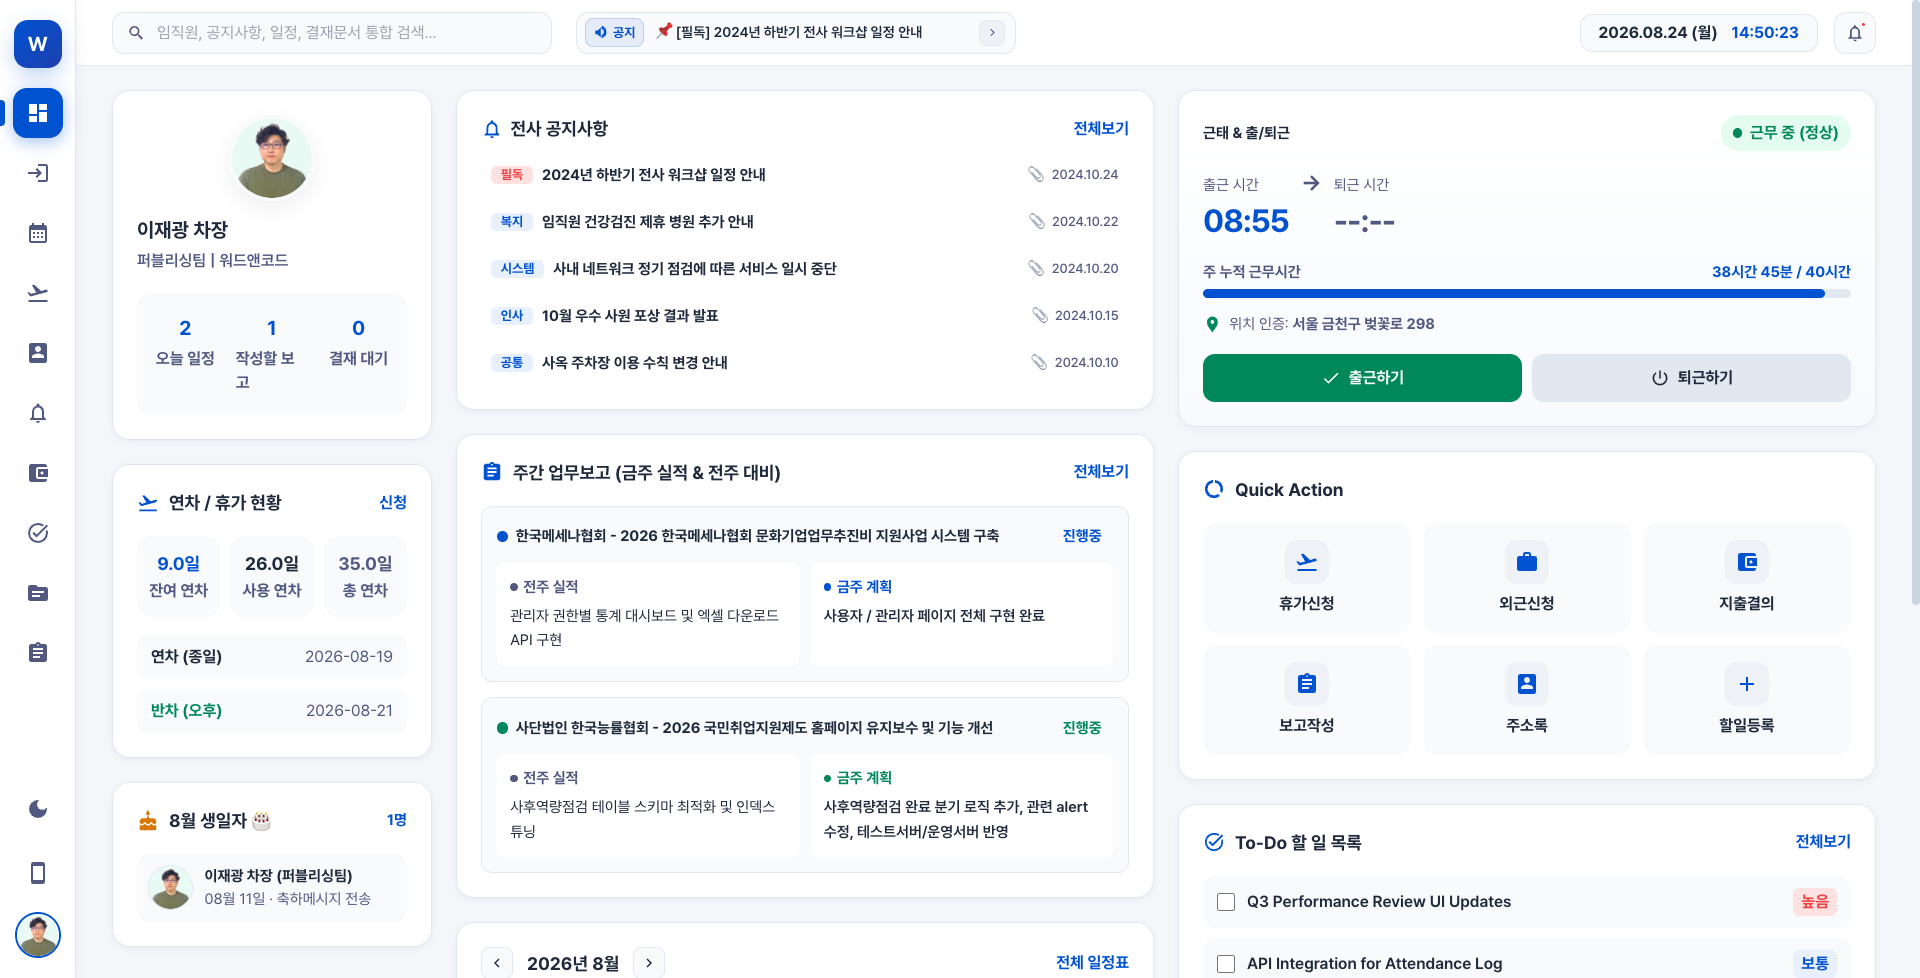
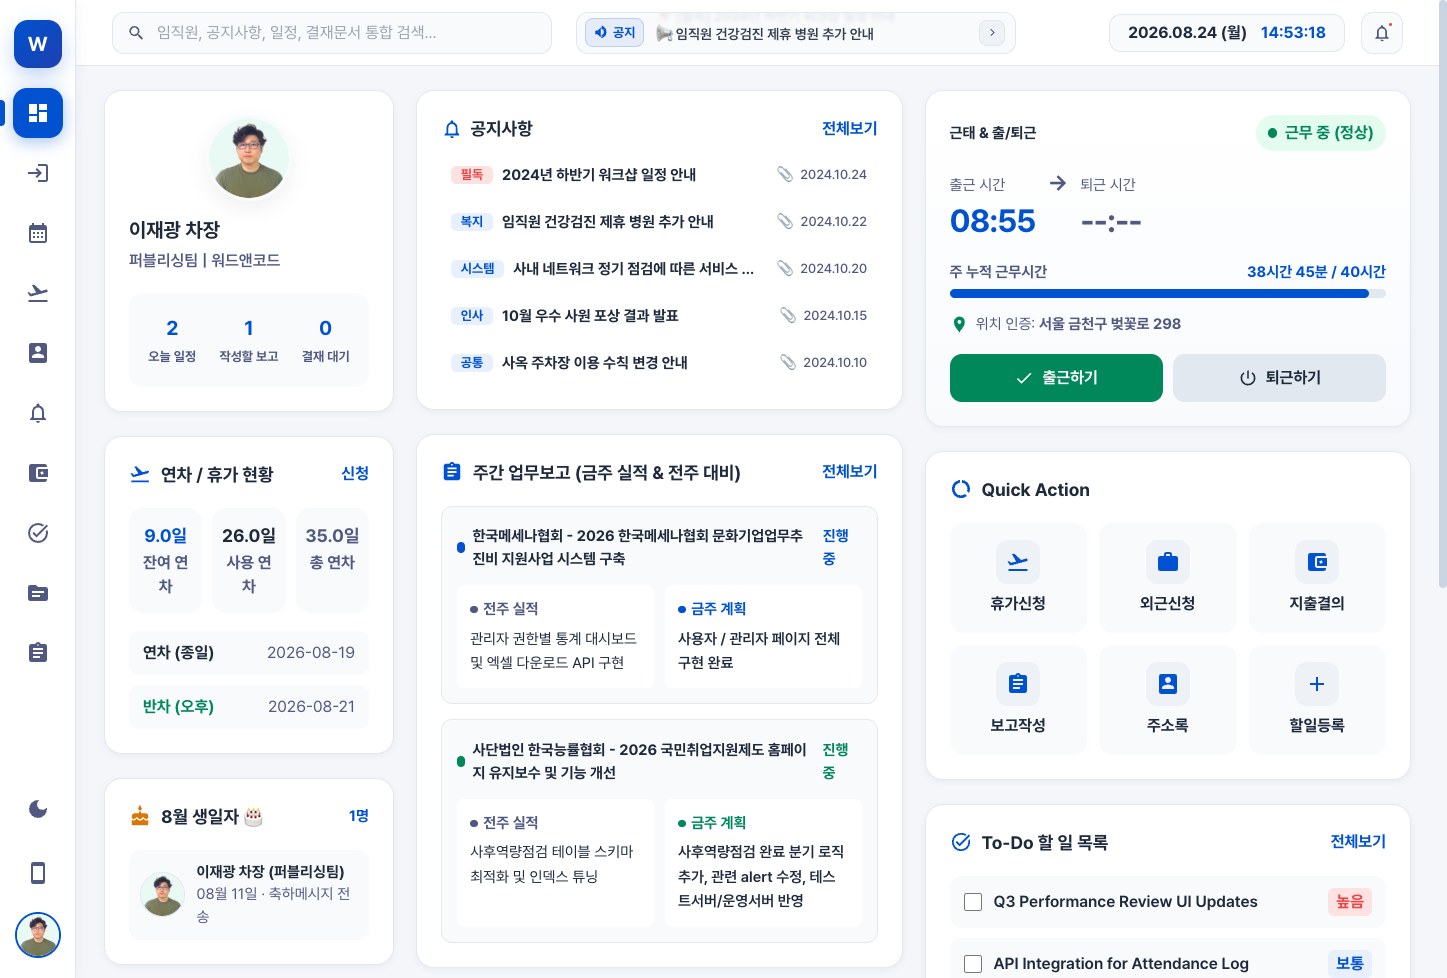
수정: UI 및 데이터 항목에서 불필요한 '전사' 명칭 전면 제거 및 텍스트 정돈

diff --git a/index.html b/index.html
@@ -165,7 +165,7 @@
       </div>
       <div class="ticker-viewport" title="공지사항 상세 보기">
         <div class="ticker-track" id="ticker-track">
-          <div class="ticker-item" id="ticker-item-current" onclick="App.openNoticeDetail(1)">2024년 하반기 전사 워크샵 일정 안내</div>
+          <div class="ticker-item" id="ticker-item-current" onclick="App.openNoticeDetail(1)">2024년 하반기 워크샵 일정 안내</div>
         </div>
       </div>
       <button class="ticker-action" onclick="App.switchTab('screen-notice-list')" title="공지사항 전체 보기">
@@ -444,7 +444,7 @@
           <div class="flex items-center gap-2.5 truncate">
             <span class="px-2.5 py-0.5 rounded-full bg-tertiary-container/20 text-tertiary-fixed-dim font-label text-[11px] font-bold shrink-0">[필독]</span>
             <span class="px-1.5 py-0.5 bg-error text-on-error rounded text-[10px] font-bold uppercase tracking-wider shrink-0">NEW</span>
-            <span class="font-headline font-bold text-xs text-on-surface truncate">2024년 하반기 전사 워크샵 일정 안내</span>
+            <span class="font-headline font-bold text-xs text-on-surface truncate">2024년 하반기 워크샵 일정 안내</span>
           </div>
           <svg class="w-5 h-5 text-outline shrink-0 ml-1" viewBox="0 0 24 24" fill="currentColor">
             <path d="M10 6L8.59 7.41 13.17 12l-4.58 4.59L10 18l6-6z"/>
@@ -1080,7 +1080,7 @@
                 <div class="flex items-baseline gap-1.5 mt-1">
                   <span class="font-headline font-bold text-2xl text-primary">사외 업무 및 미팅</span>
                 </div>
-                <p class="text-xs text-on-surface-variant mt-1.5 font-medium">등록된 외근 일정은 전사 근태일지에 즉시 실시간 동기화됩니다.</p>
+                <p class="text-xs text-on-surface-variant mt-1.5 font-medium">등록된 외근 일정은 근태일지에 즉시 실시간 동기화됩니다.</p>
               </div>
               <div class="w-12 h-12 rounded-full bg-surface-container-lowest flex items-center justify-center shadow-[0_4px_12px_rgba(35,44,81,0.04)] text-primary">
                 <svg class="w-6 h-6" viewBox="0 0 24 24" fill="currentColor">
@@ -1239,7 +1239,7 @@
             <span class="text-on-surface-variant font-body text-xs" id="notice-detail-date">2024.10.24</span>
           </div>
           <h1 class="font-headline text-xl font-bold text-on-surface mb-3 leading-snug" id="notice-detail-title">
-            2024년 하반기 전사 워크샵 일정 안내
+            2024년 하반기 워크샵 일정 안내
           </h1>
           <div class="flex items-center gap-2 text-on-surface-variant font-body text-xs border-t border-outline-variant/10 pt-3 mt-2">
             <svg class="w-4 h-4 text-on-surface-variant shrink-0" viewBox="0 0 24 24" fill="currentColor">
@@ -2006,7 +2006,7 @@
         <div class="flex flex-col gap-1 mb-2">
           <div>
             <h2 class="font-headline text-3xl font-extrabold text-on-surface tracking-tight">프로젝트 관리</h2>
-            <p class="text-on-surface-variant text-xs mt-1">전사 프로젝트 현황 및 사이트 운영 정보를 한눈에 공유하고 관리하세요.</p>
+            <p class="text-on-surface-variant text-xs mt-1">프로젝트 현황 및 사이트 운영 정보를 한눈에 공유하고 관리하세요.</p>
           </div>
           <div class="flex justify-end pt-1">
             <span class="px-3 py-1 bg-primary/10 text-primary font-bold text-xs rounded-full whitespace-nowrap" id="project-total-count">총 10개</span>
@@ -2061,7 +2061,7 @@
         <div class="flex flex-col gap-1 mb-2">
           <div>
             <h2 class="font-headline text-3xl font-extrabold text-on-surface tracking-tight">업무보고</h2>
-            <p class="text-on-surface-variant text-xs mt-1">전사 및 팀별 주간·일간 업무 진행 상황을 확인하세요.</p>
+            <p class="text-on-surface-variant text-xs mt-1">팀별 주간·일간 업무 진행 상황을 확인하세요.</p>
           </div>
           <div class="flex justify-end pt-1">
             <span class="px-3 py-1 bg-primary/10 text-primary font-bold text-xs rounded-full whitespace-nowrap">실시간 공유</span>

diff --git a/pc.html b/pc.html
@@ -215,7 +215,7 @@
               <h2 class="text-2xl font-bold text-on-surface">임직원 주소록</h2>
               <span class="px-3 py-1 bg-primary/10 text-primary font-bold rounded-full text-base" id="pc-dir-total-badge">21명</span>
             </div>
-            <p class="text-base text-on-surface-variant font-medium mt-1">워드앤코드 전사 조직도 및 21명 임직원 비상연락망</p>
+            <p class="text-base text-on-surface-variant font-medium mt-1">워드앤코드 조직도 및 21명 임직원 비상연락망</p>
           </div>
           <div class="flex items-center gap-3">
             <div class="relative w-72">
@@ -246,7 +246,7 @@
       <section class="pc-screen-view p-8" id="pc-screen-notice">
         <div class="flex flex-col md:flex-row md:items-center justify-between gap-4 mb-6 pb-4 border-b border-outline">
           <div>
-            <h2 class="text-2xl font-bold text-on-surface">전사 공지사항</h2>
+            <h2 class="text-2xl font-bold text-on-surface">공지사항</h2>
             <p class="text-base text-on-surface-variant font-medium mt-1">사내 주요 공지 및 업무 안내 게시판</p>
           </div>
           <div class="flex items-center gap-3">
@@ -368,7 +368,7 @@
         <div class="flex items-center justify-between mb-6 pb-4 border-b border-outline">
           <div>
             <h2 class="text-2xl font-bold text-on-surface">근태일지 & 사내 캘린더</h2>
-            <p class="text-base text-on-surface-variant font-medium mt-1">월간/주간/일간 전사 일정 및 휴가/외근/회의 현황</p>
+            <p class="text-base text-on-surface-variant font-medium mt-1">월간/주간/일간 사내 일정 및 휴가/외근/회의 현황</p>
           </div>
           <div class="flex items-center gap-3">
             <button class="px-4 py-2 bg-surface-container hover:bg-surface-container-high rounded-xl text-base font-bold text-on-surface" onclick="PCApp.goToTodayCal()">오늘</button>
@@ -493,7 +493,7 @@
         <div class="flex flex-col md:flex-row md:items-center justify-between gap-4 mb-6 pb-4 border-b border-outline">
           <div>
             <h2 class="text-2xl font-bold text-on-surface">프로젝트 관리</h2>
-            <p class="text-base text-on-surface-variant font-medium mt-1">전사 구축 및 운영/유지보수 프로젝트 현황</p>
+            <p class="text-base text-on-surface-variant font-medium mt-1">구축 및 운영/유지보수 프로젝트 현황</p>
           </div>
         </div>
 
@@ -545,7 +545,7 @@
                 </div>
               </div>
               <p class="text-base text-on-surface-variant leading-relaxed">
-                * 휴가 신청 완료 즉시 전사 근태일지 및 사내 캘린더에 실시간 자동 등록됩니다.
+                * 휴가 신청 완료 즉시 근태일지 및 사내 캘린더에 실시간 자동 등록됩니다.
               </p>
             </div>
           </div>

diff --git a/data/mockData.js b/data/mockData.js
@@ -36,14 +36,14 @@ window.MockData = {
   notices: [
     {
       id: 1,
-      title: '2024년 하반기 전사 워크샵 일정 안내',
+      title: '2024년 하반기 워크샵 일정 안내',
       category: '인사',
       date: '2024.10.24',
       isPinned: true,
       isNew: true,
       author: '경영지원팀 오은주 차장',
-      summary: '2024년 하반기 전사 워크샵 일정을 아래와 같이 안내합니다.',
-      content: `<p class="mb-3">안녕하십니까, 임직원 여러분.</p><p class="mb-3">2024년도 하반기 전사 워크샵 일정을 아래와 같이 안내드리오니, 부서별 일정을 확인하시어 준비해 주시기 바랍니다. 소통과 단합을 위한 다양하고 유익한 프로그램이 준비되어 있습니다.</p><div class="bg-surface-container rounded-2xl overflow-hidden p-5 my-5 border-l-[5px] border-primary"><h3 class="font-headline font-bold text-primary mb-2 text-sm">워크샵 주요 일정</h3><ul class="list-disc list-inside space-y-1.5 text-xs text-on-surface-variant"><li><strong>일시:</strong> 2024년 11월 14일(목) ~ 11월 15일(금) [1박 2일]</li><li><strong>장소:</strong> 강원도 속초 리조트 메인 홀</li><li><strong>참석 대상:</strong> 전 임직원</li><li><strong>집결:</strong> 사옥 전면 주차장 08:30 대형버스 탑승</li></ul></div><p>상세 안내 자료 및 세부 편성표는 첨부파일을 확인해 주시기 바랍니다. 문의사항은 인사팀으로 연락 부탁드립니다.</p>`,
+      summary: '2024년 하반기 워크샵 일정을 아래와 같이 안내합니다.',
+      content: `<p class="mb-3">안녕하십니까, 임직원 여러분.</p><p class="mb-3">2024년도 하반기 워크샵 일정을 아래와 같이 안내드리오니, 부서별 일정을 확인하시어 준비해 주시기 바랍니다. 소통과 단합을 위한 다양하고 유익한 프로그램이 준비되어 있습니다.</p><div class="bg-surface-container rounded-2xl overflow-hidden p-5 my-5 border-l-[5px] border-primary"><h3 class="font-headline font-bold text-primary mb-2 text-sm">워크샵 주요 일정</h3><ul class="list-disc list-inside space-y-1.5 text-xs text-on-surface-variant"><li><strong>일시:</strong> 2024년 11월 14일(목) ~ 11월 15일(금) [1박 2일]</li><li><strong>장소:</strong> 강원도 속초 리조트 메인 홀</li><li><strong>참석 대상:</strong> 전 임직원</li><li><strong>집결:</strong> 사옥 전면 주차장 08:30 대형버스 탑승</li></ul></div><p>상세 안내 자료 및 세부 편성표는 첨부파일을 확인해 주시기 바랍니다. 문의사항은 인사팀으로 연락 부탁드립니다.</p>`,
       fileName: '2024_하반기_워크샵_세부안내.pdf',
       fileSize: '3.8 MB'
     },

diff --git a/script.js b/script.js
@@ -6285,7 +6285,7 @@ const App = {
           </button>
           <div class="text-center">
             <h3 class="font-headline font-bold text-base text-primary">${d.getFullYear()}년 ${d.getMonth() + 1}월 ${d.getDate()}일 (${dayName})</h3>
-            <p class="font-body text-[11px] text-secondary font-bold mt-0.5">금일 전사 업무 진행 현황</p>
+            <p class="font-body text-[11px] text-secondary font-bold mt-0.5">금일 업무 진행 현황</p>
           </div>
           <button type="button" onclick="App.changeReportDate(1)" class="w-9 h-9 flex items-center justify-center text-on-surface-variant hover:bg-surface-container-highest rounded-full transition-colors active:scale-95" title="다음 날">
             ${getSvgIcon('chevron_right', 'w-5 h-5')}

diff --git a/pc.js b/pc.js
@@ -370,7 +370,7 @@ const PCApp = {
               <svg class="w-5 h-5 text-primary shrink-0" viewBox="0 0 24 24" fill="currentColor">
                 <path d="M12 22c1.1 0 2-.9 2-2h-4c0 1.1.89 2 2 2zm6-6v-5c0-3.07-1.64-5.64-4.5-6.32V4c0-.83-.67-1.5-1.5-1.5s-1.5.67-1.5 1.5v.68C7.63 5.36 6 7.92 6 11v5l-2 2v1h16v-1l-2-2zm-2 1H8v-6c0-2.48 1.51-4.5 4-4.5s4 2.02 4 4.5v6z"/>
               </svg>
-              전사 공지사항
+              공지사항
             </span>
             <button class="pc-card-action" onclick="PCApp.switchScreen('notice')">전체보기</button>
           </div>

diff --git a/pc.css b/pc.css
@@ -734,7 +734,7 @@ strong {
   color: var(--primary);
 }
 .pc-counter-label {
-  font-size: 16px;
+  font-size: 13px;
   color: var(--on-surface-variant);
   font-weight: 700;
 }

diff --git a/README.md b/README.md
@@ -273,6 +273,7 @@ Pool/
 - **모바일 10대 핵심 기능의 PC 전용 와이드 UI 전환 및 전체 인터랙티브 동작 구현 완료**: 주소록(8개 부서 탭/검색/사내메신저), 공지사항(필터/상세모달), 주간보고(전주vs금주 2열 비교/기안), 출퇴근(원클릭 체크/로그), 캘린더(월간/아바타패널), 재무경비(결재/지출기안), 할일(등록/토글/삭제), 프로젝트(상세/진척도), 휴가·외근 신청(실시간 캘린더 등록 연동) 등 모바일 전 기능을 데스크톱 최적화 Bento UI 및 100% 동작 가능한 비즈니스 엔진으로 구현 완료.
 - **PC 대시보드 직전 전용 Bento UI 원형 100% 복원 및 10대 비즈니스 인터랙티브 기능 동기화 유지**: 직전 Bento Grid 전용 위젯 UI 클래스 및 레이아웃 구조(프로필/연차/생일/공지/업무보고/캘린더/출퇴근/퀵액션/할일)를 100% 원형으로 복원하고 모든 화면의 인터랙티브 엔진 연동을 완벽히 보존 완료.
 - **메인 대시보드 공지사항 영역 일관된 카드 UI 및 최근 5개 목록 렌더링 적용**: 다른 Bento 카드들과 조화로운 일체형 카드 컨테이너(`pc-bento-card`)로 전환하고, 최근 공지사항 5건(필독/카테고리 뱃지, 첨부파일 표시, 작성일자) 및 클릭 시 상세 읽기 모달 연동 완료.
+- **UI 및 데이터 전반 '전사' 불필요 명칭 일괄 제거 및 간결한 표준 명칭 정돈**: 공지사항 카드 헤더, 공지 제목('2024년 하반기 워크샵'), 주소록, 캘린더, 프로젝트 설명 문구 등에서 '전사' 명칭을 제거하여 직관적이고 깔끔한 UI 텍스트로 정돈 완료.
 
 
 
